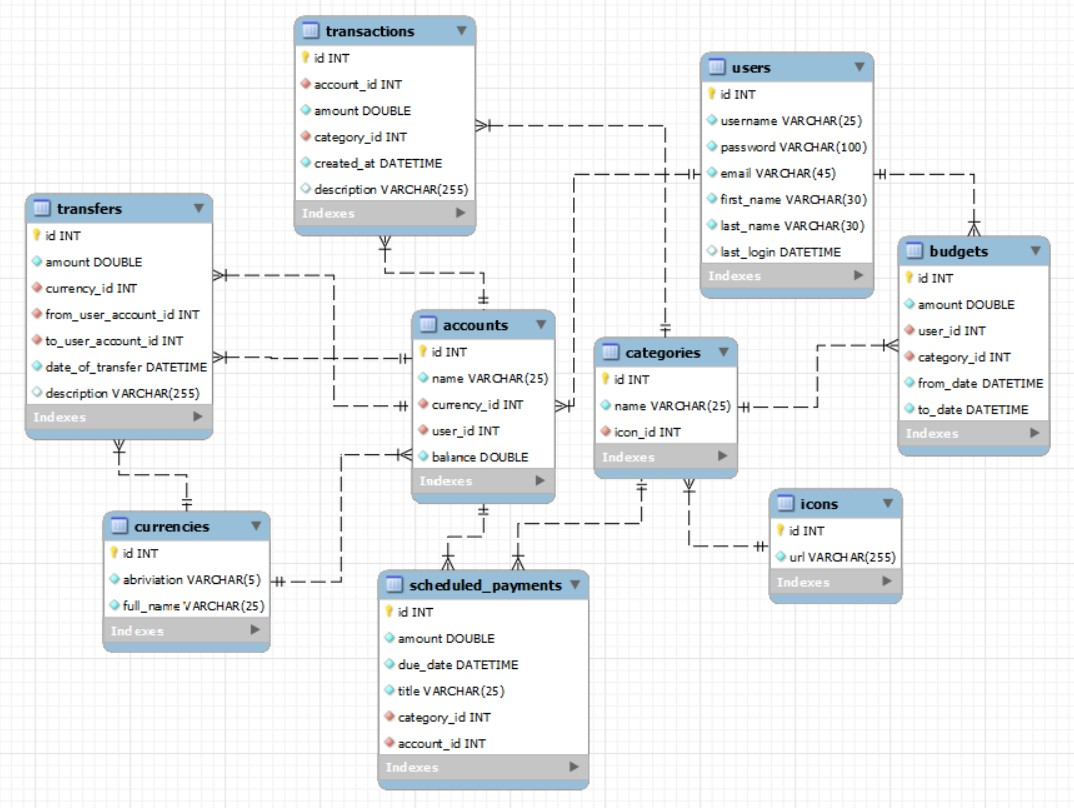
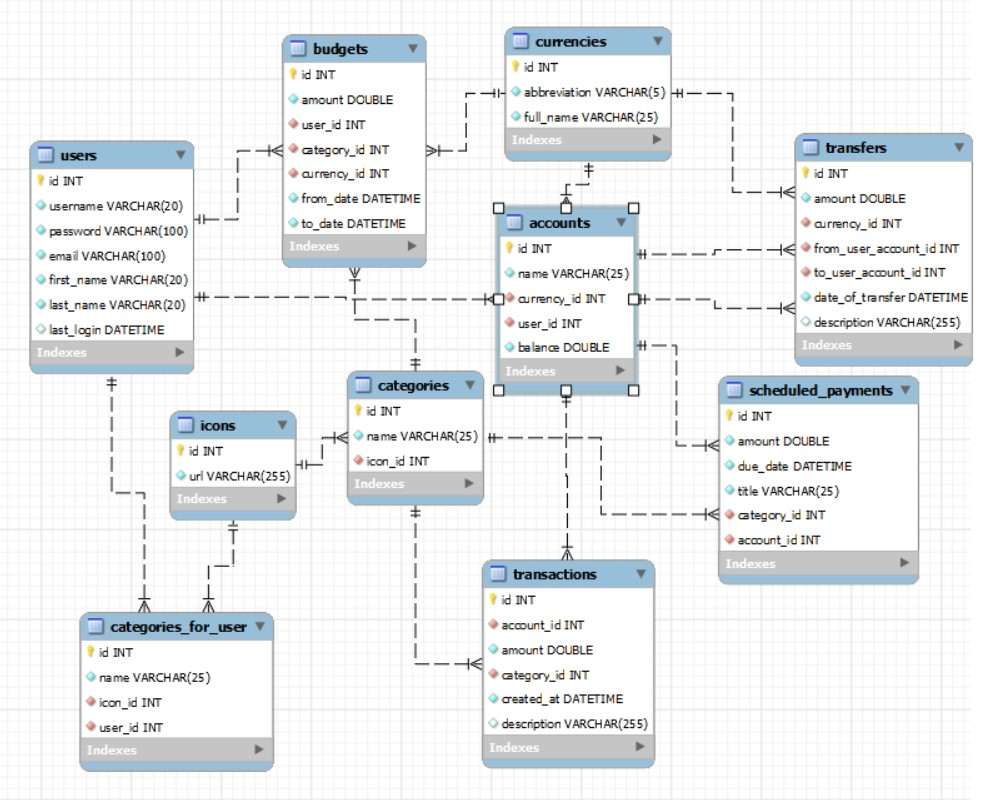
DB chaned, added categories from user
added currency in budget, added categories for and from user

diff --git a/finance_tracker/src/main/java/com/app/finance_tracker/controller/AccountController.java b/finance_tracker/src/main/java/com/app/finance_tracker/controller/AccountController.java
@@ -1,15 +1,13 @@
 package com.app.finance_tracker.controller;
 
-import com.app.finance_tracker.model.Exeptionls.UnauthorizedException;
 import com.app.finance_tracker.model.dto.accountDTO.AccountAddMoneyDTO;
 import com.app.finance_tracker.model.dto.accountDTO.AccountCreateDTO;
 import com.app.finance_tracker.model.dto.accountDTO.AccountForReturnDTO;
 import com.app.finance_tracker.model.dto.MessageDTO;
 import com.app.finance_tracker.model.dto.accountDTO.AccountForUpdateDTO;
-import com.app.finance_tracker.model.utility.service.AccountService;
-import com.app.finance_tracker.model.utility.service.UserService;
+import com.app.finance_tracker.service.AccountService;
+import com.app.finance_tracker.service.UserService;
 import jakarta.servlet.http.HttpServletRequest;
-import jakarta.transaction.Transactional;
 import org.springframework.beans.factory.annotation.Autowired;
 import org.springframework.http.ResponseEntity;
 import org.springframework.validation.annotation.Validated;
@@ -26,22 +24,21 @@ public class AccountController extends AbstractController {
     @Autowired
     private UserService userService;
 
-    @PostMapping("/addAccount")
+    @PostMapping("/account")
     public ResponseEntity<AccountForReturnDTO> addAccount(@RequestBody AccountCreateDTO accountDTO, HttpServletRequest request) {
         checkIfLogged(request);
         AccountForReturnDTO accountForReturnDTO = accountService.addAccount(accountDTO);
         return ResponseEntity.ok(accountForReturnDTO);
     }
 
-    @GetMapping("/getAllAccountsForUser")
+    @GetMapping("/account/all")
     public ResponseEntity<List<AccountForReturnDTO>> getAllAccountsForUser(HttpServletRequest request) {
         long id = checkIfLoggedAndReturnUserId(request);
         List<AccountForReturnDTO> accountsDTO = accountService.getAllAccountsForUser(id);
         return ResponseEntity.ok(accountsDTO);
     }
 
-    @Transactional
-    @PutMapping("/updateAccount")
+    @PutMapping("/account")
     public ResponseEntity<AccountForReturnDTO> updateAccount(@RequestBody AccountForUpdateDTO accountDTO, HttpServletRequest request) {
         checkIfLogged(request);
         checkIfAccountBelongsToUser(accountDTO.getId(), request);
@@ -49,7 +46,7 @@ public class AccountController extends AbstractController {
         return ResponseEntity.ok(account);
     }
 
-    @PutMapping("/addMoneyToAccount")
+    @PutMapping("/account/fill")
     public ResponseEntity<AccountForReturnDTO> addMoneyToAccount(@RequestBody AccountAddMoneyDTO accountDTO, HttpServletRequest request) {
         checkIfLogged(request);
         checkIfAccountBelongsToUser(accountDTO.getId(), request);
@@ -57,7 +54,7 @@ public class AccountController extends AbstractController {
         return ResponseEntity.ok(account);
     }
 
-    @GetMapping("/getAccount/{id}")
+    @GetMapping("/account/{id}")
     public ResponseEntity<AccountForReturnDTO> getAccount(@PathVariable long id, HttpServletRequest request) {
         checkIfLogged(request);
         accountService.checkIfAccountBelongsToUser(id, Long.parseLong(request.getParameter(USER_ID)));
@@ -65,7 +62,7 @@ public class AccountController extends AbstractController {
         return ResponseEntity.ok(account);
     }
 
-    @DeleteMapping("/deleteAccount/{id}")
+    @DeleteMapping("/account/{id}")
     public ResponseEntity<MessageDTO> deleteAccount(@PathVariable long id, HttpServletRequest request) {
         checkIfLogged(request);
         accountService.checkIfAccountBelongsToUser(id, Long.parseLong(request.getParameter(USER_ID)));

diff --git a/finance_tracker/src/main/java/com/app/finance_tracker/service/CategoryService.java b/finance_tracker/src/main/java/com/app/finance_tracker/service/CategoryService.java
@@ -1,15 +1,16 @@
-package com.app.finance_tracker.model.utility.service;
+package com.app.finance_tracker.service;
 
 import com.app.finance_tracker.model.Exeptionls.BadRequestException;
-import com.app.finance_tracker.model.Exeptionls.InvalidArgumentsException;
 import com.app.finance_tracker.model.dto.categoryDTO.CategoryForReturnDTO;
 import com.app.finance_tracker.model.entities.Category;
-import com.app.finance_tracker.model.repository.CategoryRepository;
-import org.hibernate.bytecode.internal.bytebuddy.BulkAccessorException;
-import org.modelmapper.ModelMapper;
-import org.springframework.beans.factory.annotation.Autowired;
+import com.app.finance_tracker.model.entities.User;
+import org.apache.commons.io.FilenameUtils;
 import org.springframework.stereotype.Service;
+import org.springframework.web.multipart.MultipartFile;
 
+import java.io.File;
+import java.io.IOException;
+import java.nio.file.Files;
 import java.util.List;
 import java.util.Optional;
 
@@ -44,4 +45,29 @@ public class CategoryService extends AbstractService {
         categoryForReturnDTO.setIconURL(categoryOptional.get().getIcon().getUrl());
         return categoryForReturnDTO;
     }
+
+//    public String uploadProfileImage(long uid, MultipartFile file) {
+//        try {
+//            Optional<User> user = userRepository.findById(uid);
+//            String ext = FilenameUtils.getExtension(file.getOriginalFilename());
+//            String name = "categories" + File.separator + System.nanoTime() + "." + ext;
+//            File f = new File(name);
+//            if(!f.exists()) {
+//                Files.copy(file.getInputStream(), f.toPath());
+//            }
+//            else{
+//                //this should never happen!
+//                throw new BadRequestException("The file already exists, this should never happen, call Krasi!");
+//            }
+//            if(user.getProfileImageUrl() != null){
+//                File old = new File(user.getProfileImageUrl());
+//                old.delete();
+//            }
+//            user.setProfileImageUrl(name);
+//            userRepository.save(user);
+//            return name;
+//        } catch (IOException e) {
+//            throw new BadRequestException(e.getMessage());
+//        }
+//    }
 }

diff --git a/finance_tracker/src/main/java/com/app/finance_tracker/controller/UserController.java b/finance_tracker/src/main/java/com/app/finance_tracker/controller/UserController.java
@@ -5,9 +5,8 @@ import com.app.finance_tracker.model.dto.userDTO.UserLoginDTO;
 import com.app.finance_tracker.model.dto.userDTO.UserRegistrationDTO;
 import com.app.finance_tracker.model.dto.userDTO.UserWithoutPasswordDTO;
 import com.app.finance_tracker.model.entities.User;
-import com.app.finance_tracker.model.utility.service.UserService;
+import com.app.finance_tracker.service.UserService;
 import jakarta.servlet.http.HttpServletRequest;
-import jakarta.servlet.http.HttpSession;
 import org.modelmapper.ModelMapper;
 import org.springframework.beans.factory.annotation.Autowired;
 import org.springframework.http.ResponseEntity;
@@ -36,13 +35,13 @@ public class UserController extends AbstractController {
         return ResponseEntity.ok(modelMapper.map(user, UserWithoutPasswordDTO.class));
     }
 
-    @PostMapping("/logout")
+    @PostMapping("/users/logout")
     public ResponseEntity<String> logoutUser(HttpServletRequest request) {
         request.getSession().invalidate();
         return ResponseEntity.ok("Logout successful");
     }
 
-    @PutMapping("/updateProfile")
+    @PutMapping("/users")
     public ResponseEntity<UserWithoutPasswordDTO> updateUser(@RequestBody UserRegistrationDTO userDTO, HttpServletRequest session) {
         checkIfLogged(session);
         if (userDTO.getId() != (int) session.getAttribute(USER_ID)) {
@@ -59,6 +58,8 @@ public class UserController extends AbstractController {
         List<UserWithoutPasswordDTO> users = userService.getAllUsers();
         return ResponseEntity.ok(users);
     }
+    // todo: return user by username
+    // todo: return user by first and last name
 
 //    @Scheduled(cron = "0 0 9 * * 1")
 //    @Scheduled(fixedRate = 5000)

diff --git a/finance_tracker/src/main/java/com/app/finance_tracker/service/AccountService.java b/finance_tracker/src/main/java/com/app/finance_tracker/service/AccountService.java
@@ -1,4 +1,4 @@
-package com.app.finance_tracker.model.utility.service;
+package com.app.finance_tracker.service;
 
 import com.app.finance_tracker.model.Exeptionls.BadRequestException;
 import com.app.finance_tracker.model.Exeptionls.InvalidArgumentsException;
@@ -9,13 +9,6 @@ import com.app.finance_tracker.model.dto.accountDTO.AccountForReturnDTO;
 import com.app.finance_tracker.model.dto.accountDTO.AccountForUpdateDTO;
 import com.app.finance_tracker.model.dto.currencyDTO.CurrencyForReturnDTO;
 import com.app.finance_tracker.model.entities.Account;
-import com.app.finance_tracker.model.repository.AccountRepository;
-import com.app.finance_tracker.model.repository.CurrencyRepository;
-import com.app.finance_tracker.model.repository.UserRepository;
-import com.app.finance_tracker.model.utility.validation.AccountValidation;
-import org.modelmapper.ModelMapper;
-import org.springframework.beans.factory.annotation.Autowired;
-import org.springframework.stereotype.Component;
 import org.springframework.stereotype.Service;
 
 import java.util.List;

diff --git a/finance_tracker/src/main/java/com/app/finance_tracker/controller/AbstractController.java b/finance_tracker/src/main/java/com/app/finance_tracker/controller/AbstractController.java
@@ -6,16 +6,13 @@ import com.app.finance_tracker.model.Exeptionls.NotFoundException;
 import com.app.finance_tracker.model.Exeptionls.UnauthorizedException;
 import com.app.finance_tracker.model.dto.ErrorDTO;
 import com.app.finance_tracker.model.entities.Account;
-import com.app.finance_tracker.model.repository.AccountRepository;
-import com.app.finance_tracker.model.utility.service.AccountService;
+import com.app.finance_tracker.service.AccountService;
 import jakarta.servlet.http.HttpServletRequest;
 import jakarta.servlet.http.HttpSession;
 import org.springframework.beans.factory.annotation.Autowired;
 import org.springframework.http.HttpStatus;
-import org.springframework.stereotype.Controller;
 import org.springframework.web.bind.annotation.ExceptionHandler;
 import org.springframework.web.bind.annotation.ResponseStatus;
-import org.springframework.web.bind.annotation.RestController;
 
 import java.time.LocalDateTime;
 

diff --git a/finance_tracker/src/main/java/com/app/finance_tracker/service/TransactionService.java b/finance_tracker/src/main/java/com/app/finance_tracker/service/TransactionService.java
@@ -1,4 +1,4 @@
-package com.app.finance_tracker.model.utility.service;
+package com.app.finance_tracker.service;
 
 import com.app.finance_tracker.model.Exeptionls.BadRequestException;
 import com.app.finance_tracker.model.Exeptionls.InvalidArgumentsException;
@@ -11,9 +11,7 @@ import com.app.finance_tracker.model.entities.Budget;
 import com.app.finance_tracker.model.entities.Category;
 import com.app.finance_tracker.model.entities.Transaction;
 import com.app.finance_tracker.model.repository.*;
-import org.modelmapper.ModelMapper;
 import org.springframework.beans.factory.annotation.Autowired;
-import org.springframework.stereotype.Component;
 import org.springframework.stereotype.Service;
 import org.springframework.transaction.annotation.Transactional;
 

diff --git a/finance_tracker/src/main/java/com/app/finance_tracker/controller/CategoryController.java b/finance_tracker/src/main/java/com/app/finance_tracker/controller/CategoryController.java
@@ -1,7 +1,7 @@
 package com.app.finance_tracker.controller;
 
 import com.app.finance_tracker.model.dto.categoryDTO.CategoryForReturnDTO;
-import com.app.finance_tracker.model.utility.service.CategoryService;
+import com.app.finance_tracker.service.CategoryService;
 import org.springframework.beans.factory.annotation.Autowired;
 import org.springframework.http.ResponseEntity;
 import org.springframework.validation.annotation.Validated;
@@ -34,5 +34,7 @@ public class CategoryController extends AbstractController {
         CategoryForReturnDTO category = categoryService.getCategoryByName(name);
         return ResponseEntity.ok(category);
     }
+
+
 
 }

diff --git a/finance_tracker/src/main/java/com/app/finance_tracker/controller/BudgetController.java b/finance_tracker/src/main/java/com/app/finance_tracker/controller/BudgetController.java
@@ -3,7 +3,7 @@ package com.app.finance_tracker.controller;
 import com.app.finance_tracker.model.dto.budgetDTO.BudgetReturnDto;
 import com.app.finance_tracker.model.dto.budgetDTO.CreateBudgetDto;
 import com.app.finance_tracker.model.dto.budgetDTO.EditBudgetDto;
-import com.app.finance_tracker.model.utility.service.BudgetService;
+import com.app.finance_tracker.service.BudgetService;
 import jakarta.servlet.http.HttpServletRequest;
 import org.springframework.beans.factory.annotation.Autowired;
 import org.springframework.http.ResponseEntity;

diff --git a/finance_tracker/src/main/java/com/app/finance_tracker/controller/ScheduledPaymentController.java b/finance_tracker/src/main/java/com/app/finance_tracker/controller/ScheduledPaymentController.java
@@ -2,7 +2,7 @@ package com.app.finance_tracker.controller;
 
 import com.app.finance_tracker.model.dto.scheduledpaymentDTO.ScheduledPaymentCreateDto;
 import com.app.finance_tracker.model.dto.scheduledpaymentDTO.ScheduledPaymentResponseDto;
-import com.app.finance_tracker.model.utility.service.ScheduledPaymentService;
+import com.app.finance_tracker.service.ScheduledPaymentService;
 import jakarta.servlet.http.HttpServletRequest;
 import org.springframework.beans.factory.annotation.Autowired;
 import org.springframework.http.HttpStatus;

diff --git a/finance_tracker/src/main/java/com/app/finance_tracker/model/entities/CategoryFromUser.java b/finance_tracker/src/main/java/com/app/finance_tracker/model/entities/CategoryFromUser.java
@@ -1,0 +1,22 @@
+package com.app.finance_tracker.model.entities;
+
+import jakarta.persistence.*;
+import lombok.Data;
+
+@Data
+@Entity
+@Table(name  = "categories_for_user")
+public class CategoryFromUser {
+
+    @Id
+    @GeneratedValue(strategy = GenerationType.IDENTITY)
+    private long id;
+    @Column
+    private String name;
+    @ManyToOne
+    @JoinColumn(name="icon_id", nullable=false)
+    private Icon icon;
+    @ManyToOne
+    @JoinColumn(name="user_id", nullable=false)
+    private User user;
+}

diff --git a/finance_tracker/src/main/java/com/app/finance_tracker/controller/TransactionController.java b/finance_tracker/src/main/java/com/app/finance_tracker/controller/TransactionController.java
@@ -2,7 +2,7 @@ package com.app.finance_tracker.controller;
 
 import com.app.finance_tracker.model.dto.transactionDTO.CreateTransactionDto;
 import com.app.finance_tracker.model.dto.transactionDTO.TransactionReturnDto;
-import com.app.finance_tracker.model.utility.service.TransactionService;
+import com.app.finance_tracker.service.TransactionService;
 import jakarta.servlet.http.HttpServletRequest;
 import org.modelmapper.ModelMapper;
 import org.springframework.beans.factory.annotation.Autowired;

diff --git a/finance_tracker/src/main/java/com/app/finance_tracker/service/BudgetService.java b/finance_tracker/src/main/java/com/app/finance_tracker/service/BudgetService.java
@@ -1,4 +1,4 @@
-package com.app.finance_tracker.model.utility.service;
+package com.app.finance_tracker.service;
 
 import com.app.finance_tracker.model.Exeptionls.BadRequestException;
 import com.app.finance_tracker.model.Exeptionls.InvalidArgumentsException;
